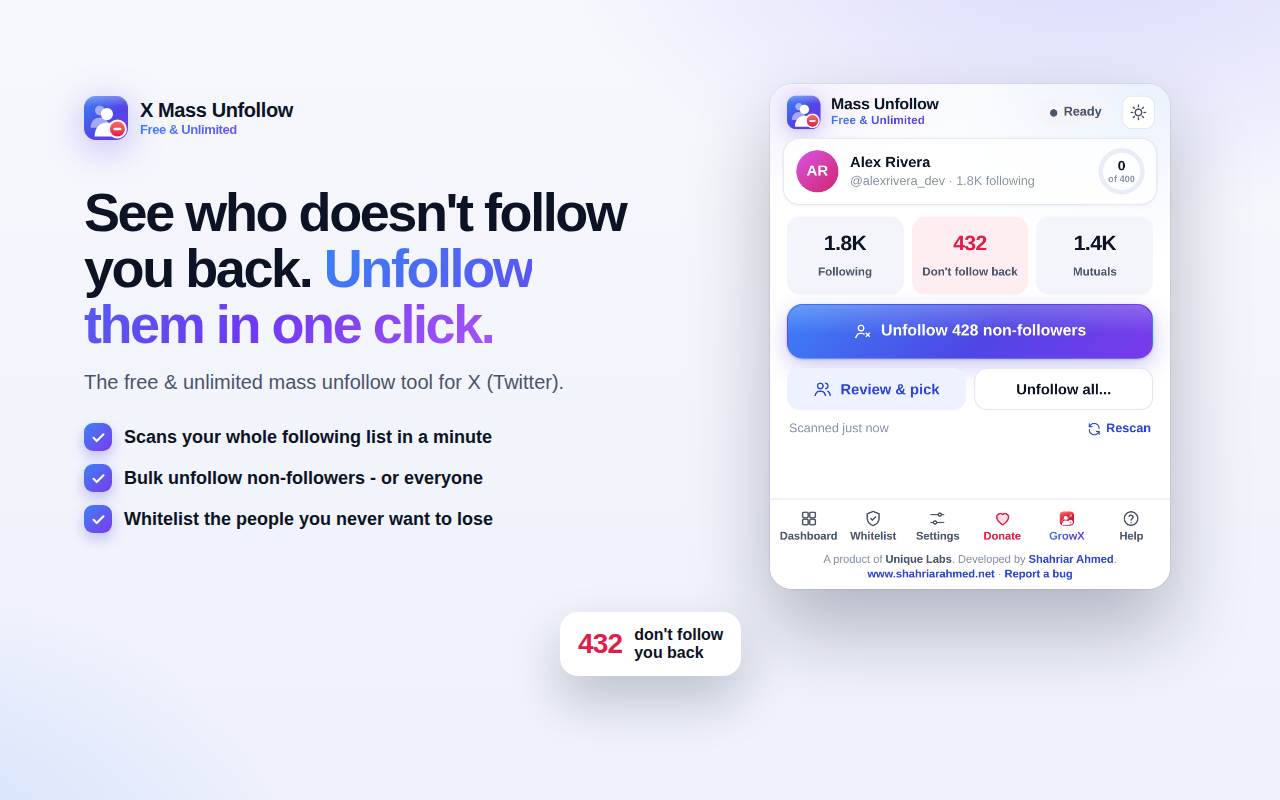
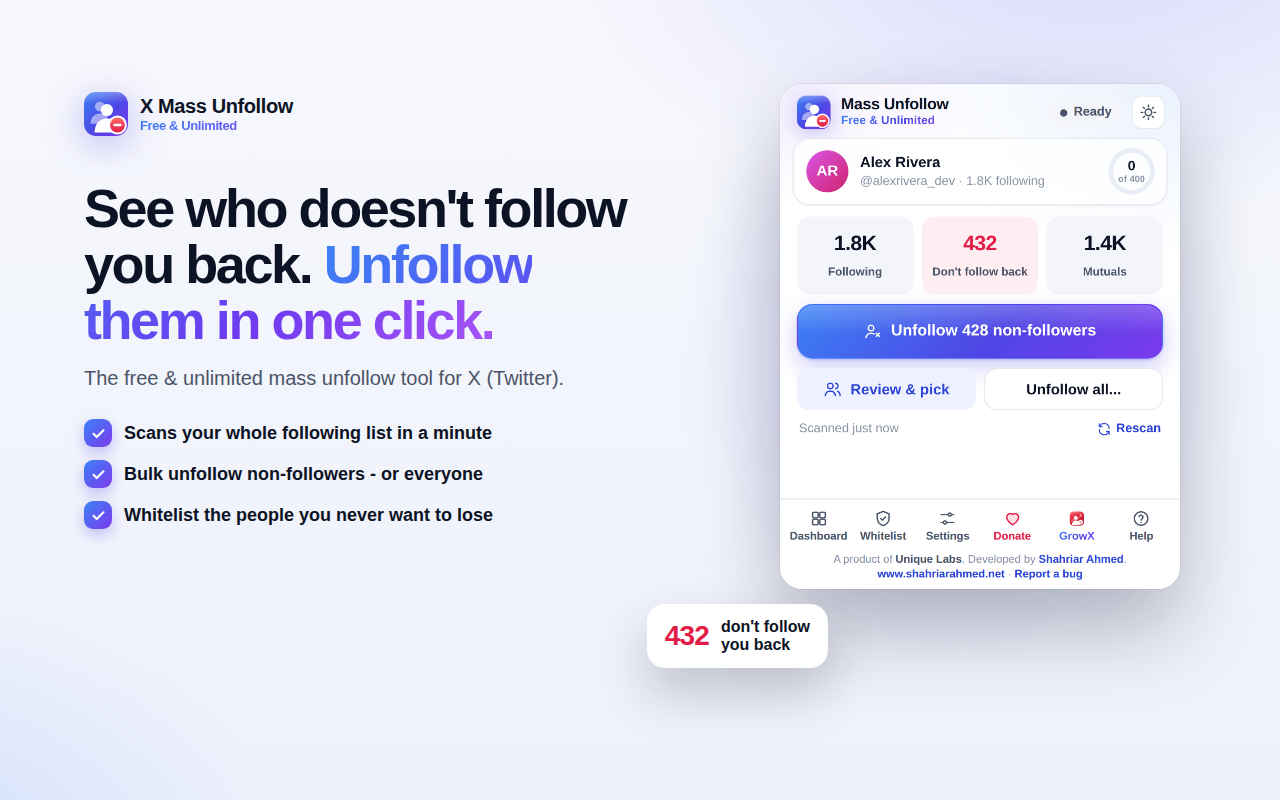
Refresh Chrome Web Store graphics for 7.3.0
- New screenshot 3: the Inactive tab (dark), with last-active results seeded
  in the same shape the real check stores them, 90d+ filter and a selection.
- Review & pick shows the page header and the floating "Unfollow selected"
  bar; captures are scrolled deliberately so the sticky toolbar never covers
  a row. Counts match across shots.
- Screenshot 5: fix copy that claimed "no tracking / no analytics" (there are
  anonymous, opt-out stats); "Private" card replaced by "Light & dark".
  The separate dark-mode screenshot is folded into 3 and 5.
- Marquee: clearer headline, Free / Unlimited / Private / Safe pacing chips,
  taller dashboard capture. Small tile: one-line description of what it does.
- STORE_LISTING screenshot order updated.

Claude-Session: https://claude.ai/code/session_01GfSNH79KgTiw8XukEzpXwS

diff --git a/STORE_LISTING.md b/STORE_LISTING.md
@@ -210,9 +210,9 @@ Install X (Twitter) Mass Unfollow Tool and clean up your following list in minut
 
 1. `01-unfollow-non-followers.png` - Find everyone who doesn't follow you back and unfollow them in one click
 2. `02-review-and-pick.png` - Review your whole following list with search, filters and multi-select
-3. `03-runs-in-background.png` - Safe pacing that keeps working in the background
-4. `04-dark-mode.png` - Beautiful light and dark mode
-5. `05-free-and-private.png` - Free, unlimited and private - whitelist, history and CSV export
+3. `03-inactive-and-not-blue.png` - Find inactive and non-verified accounts by when they last posted
+4. `04-runs-in-background.png` - Safe pacing that keeps working in the background
+5. `05-free-and-private.png` - Free, unlimited and private - whitelist, keep rules, history, CSV, light and dark
 
 Promo tiles: `promo-small-440x280.png`, `promo-marquee-1400x560.png`.
 
